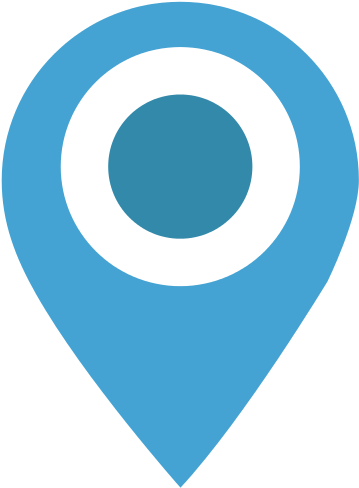
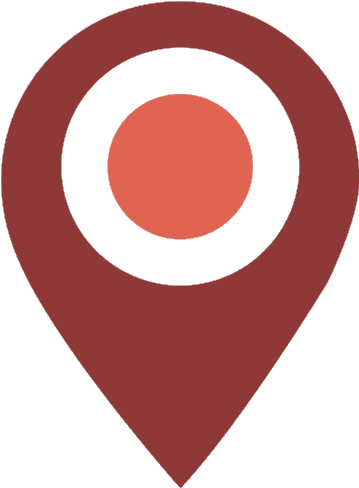
#14 - Fix the map position.

diff --git a/src/DogFriendly.Web.Client/Components/SearchPlace.razor.cs b/src/DogFriendly.Web.Client/Components/SearchPlace.razor.cs
@@ -145,21 +145,19 @@ namespace DogFriendly.Web.Client.Components
             SearchService.SetSearch(adjusted.Latitude, adjusted.Longitude, 13);
             this.Map.Geometric.Points.AppearanceOnType((item) => item.type == "place").pattern = new PointIcon
             {
-                iconUrl = "/img/point.png",
-                iconSize = new int[] { 30, 50 },
+                iconUrl = "/img/point.png?v=1.0.1",
+                iconSize = [30, 50],
             };
             this.Map.Geometric.Points.Appearance(item => item.type == "place").pattern = new PointTooltip
             {
                 permanent = false,
-                content = @"<div class='result-list'>
-                    <div class='media mb-3'>
-                        <div class='mr-3' style='width: 60px; height: 60px;'>
-                            <img src='" + Configuration["PhotoUrl"] + @"width=60,height=60.,quality=75,fit=cover/${value.photo}' class='img-fluid' alt='${value.name}' />
-                        </div>
-                        <div class='media-body'>
-                            <h5 class='mt-0'>${value.name}</h5>
-                            <p class='text-muted'>${value.description}</p>
-                        </div>
+                content = @"<div class=""media mb-3"">
+                    <div class=""mr-3"" style=""width: 60px; height: 60px;"">
+                        <img src=""" + Configuration["PhotoUrl"] + @"width=60,height=60,quality=75,fit=cover/${value.photo}"" class=""img-fluid"" alt=""${value.name}"" />
+                    </div>
+                    <div class=""media-body"">
+                        <h5 class=""mt-0"">${value.name}</h5>
+                        <p>${value.description}</p>
                     </div>
                 </div>"
             };
@@ -286,6 +284,13 @@ namespace DogFriendly.Web.Client.Components
                         value = p
                     })
                     .ToList());
+                await Task.Delay(500);
+                this.Map.View.setCenter = new Location
+                {
+                    latitude = SearchService.Latitude - 0.01,
+                    longitude = SearchService.Longitude - 0.03
+                };
+                this.Map.View.setZoomLevel = 13;
             }
         }
 
@@ -342,8 +347,15 @@ namespace DogFriendly.Web.Client.Components
         /// <summary>
         /// Views the changed.
         /// </summary>
-        private void ViewChanged()
+        private async void ViewChanged()
         {
+            this.Map.View.setZoomLevel = SearchService.ZoomLevel;
+            this.Map.View.setCenter = new Location
+            {
+                latitude = SearchService.Latitude,
+                longitude = SearchService.Longitude
+            };
+            await Task.Delay(500);
             this.Map.View.setZoomLevel = SearchService.ZoomLevel;
             this.Map.View.setCenter = new Location
             {

diff --git a/src/DogFriendly.Web.Client/Pages/SearchResult.razor.cs b/src/DogFriendly.Web.Client/Pages/SearchResult.razor.cs
@@ -486,9 +486,8 @@ namespace DogFriendly.Web.Client.Pages
         /// <param name="place">The place.</param>
         protected void ViewResult(PlaceListViewModel place)
         {
-            // todo: fix this position for the map center.
-            var latitude = place.Latitude/* - 0.01*/;
-            var longitude = place.Longitude/* + 0.04*/;
+            var latitude = place.Latitude - 0.02;
+            var longitude = place.Longitude - 0.01;
             SearchService.SetView(latitude, longitude, 15);
         }
 
@@ -519,7 +518,6 @@ namespace DogFriendly.Web.Client.Pages
             PlaceId = place.Id;
             NavigationManager.NavigateTo($"/place/{PlaceId}");
             Reviews = await PlaceResource.GetPlaceReviews(PlaceId.Value);
-            await JSRuntime.InvokeVoidAsync("initializeShareThis");
         }
     }
 }
